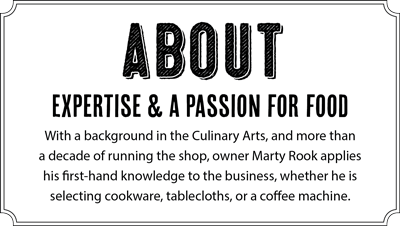
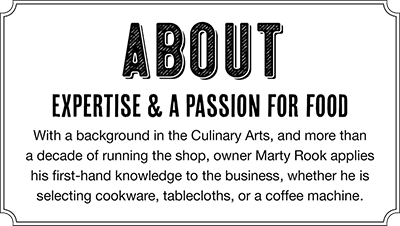
replace header images with retinas

diff --git a/template-part-head.php b/template-part-head.php
@@ -16,7 +16,8 @@
 
 
     <div class="section-box">
-      <img src="<?php bloginfo('template_directory'); ?>/img/box-<?php echo(get_the_slug()); ?>.png" alt="" class="img-responsive">
+    <?php $img = get_template_directory_uri() . '/img/box-' . get_the_slug();?>
+      <img src="<?php echo $img; ?>.png" srcset="<?php echo $img; ?>.png 1x, <?php echo $img; ?>@2x.png 2x" class="img-responsive">
     </div>
 
 </header>
